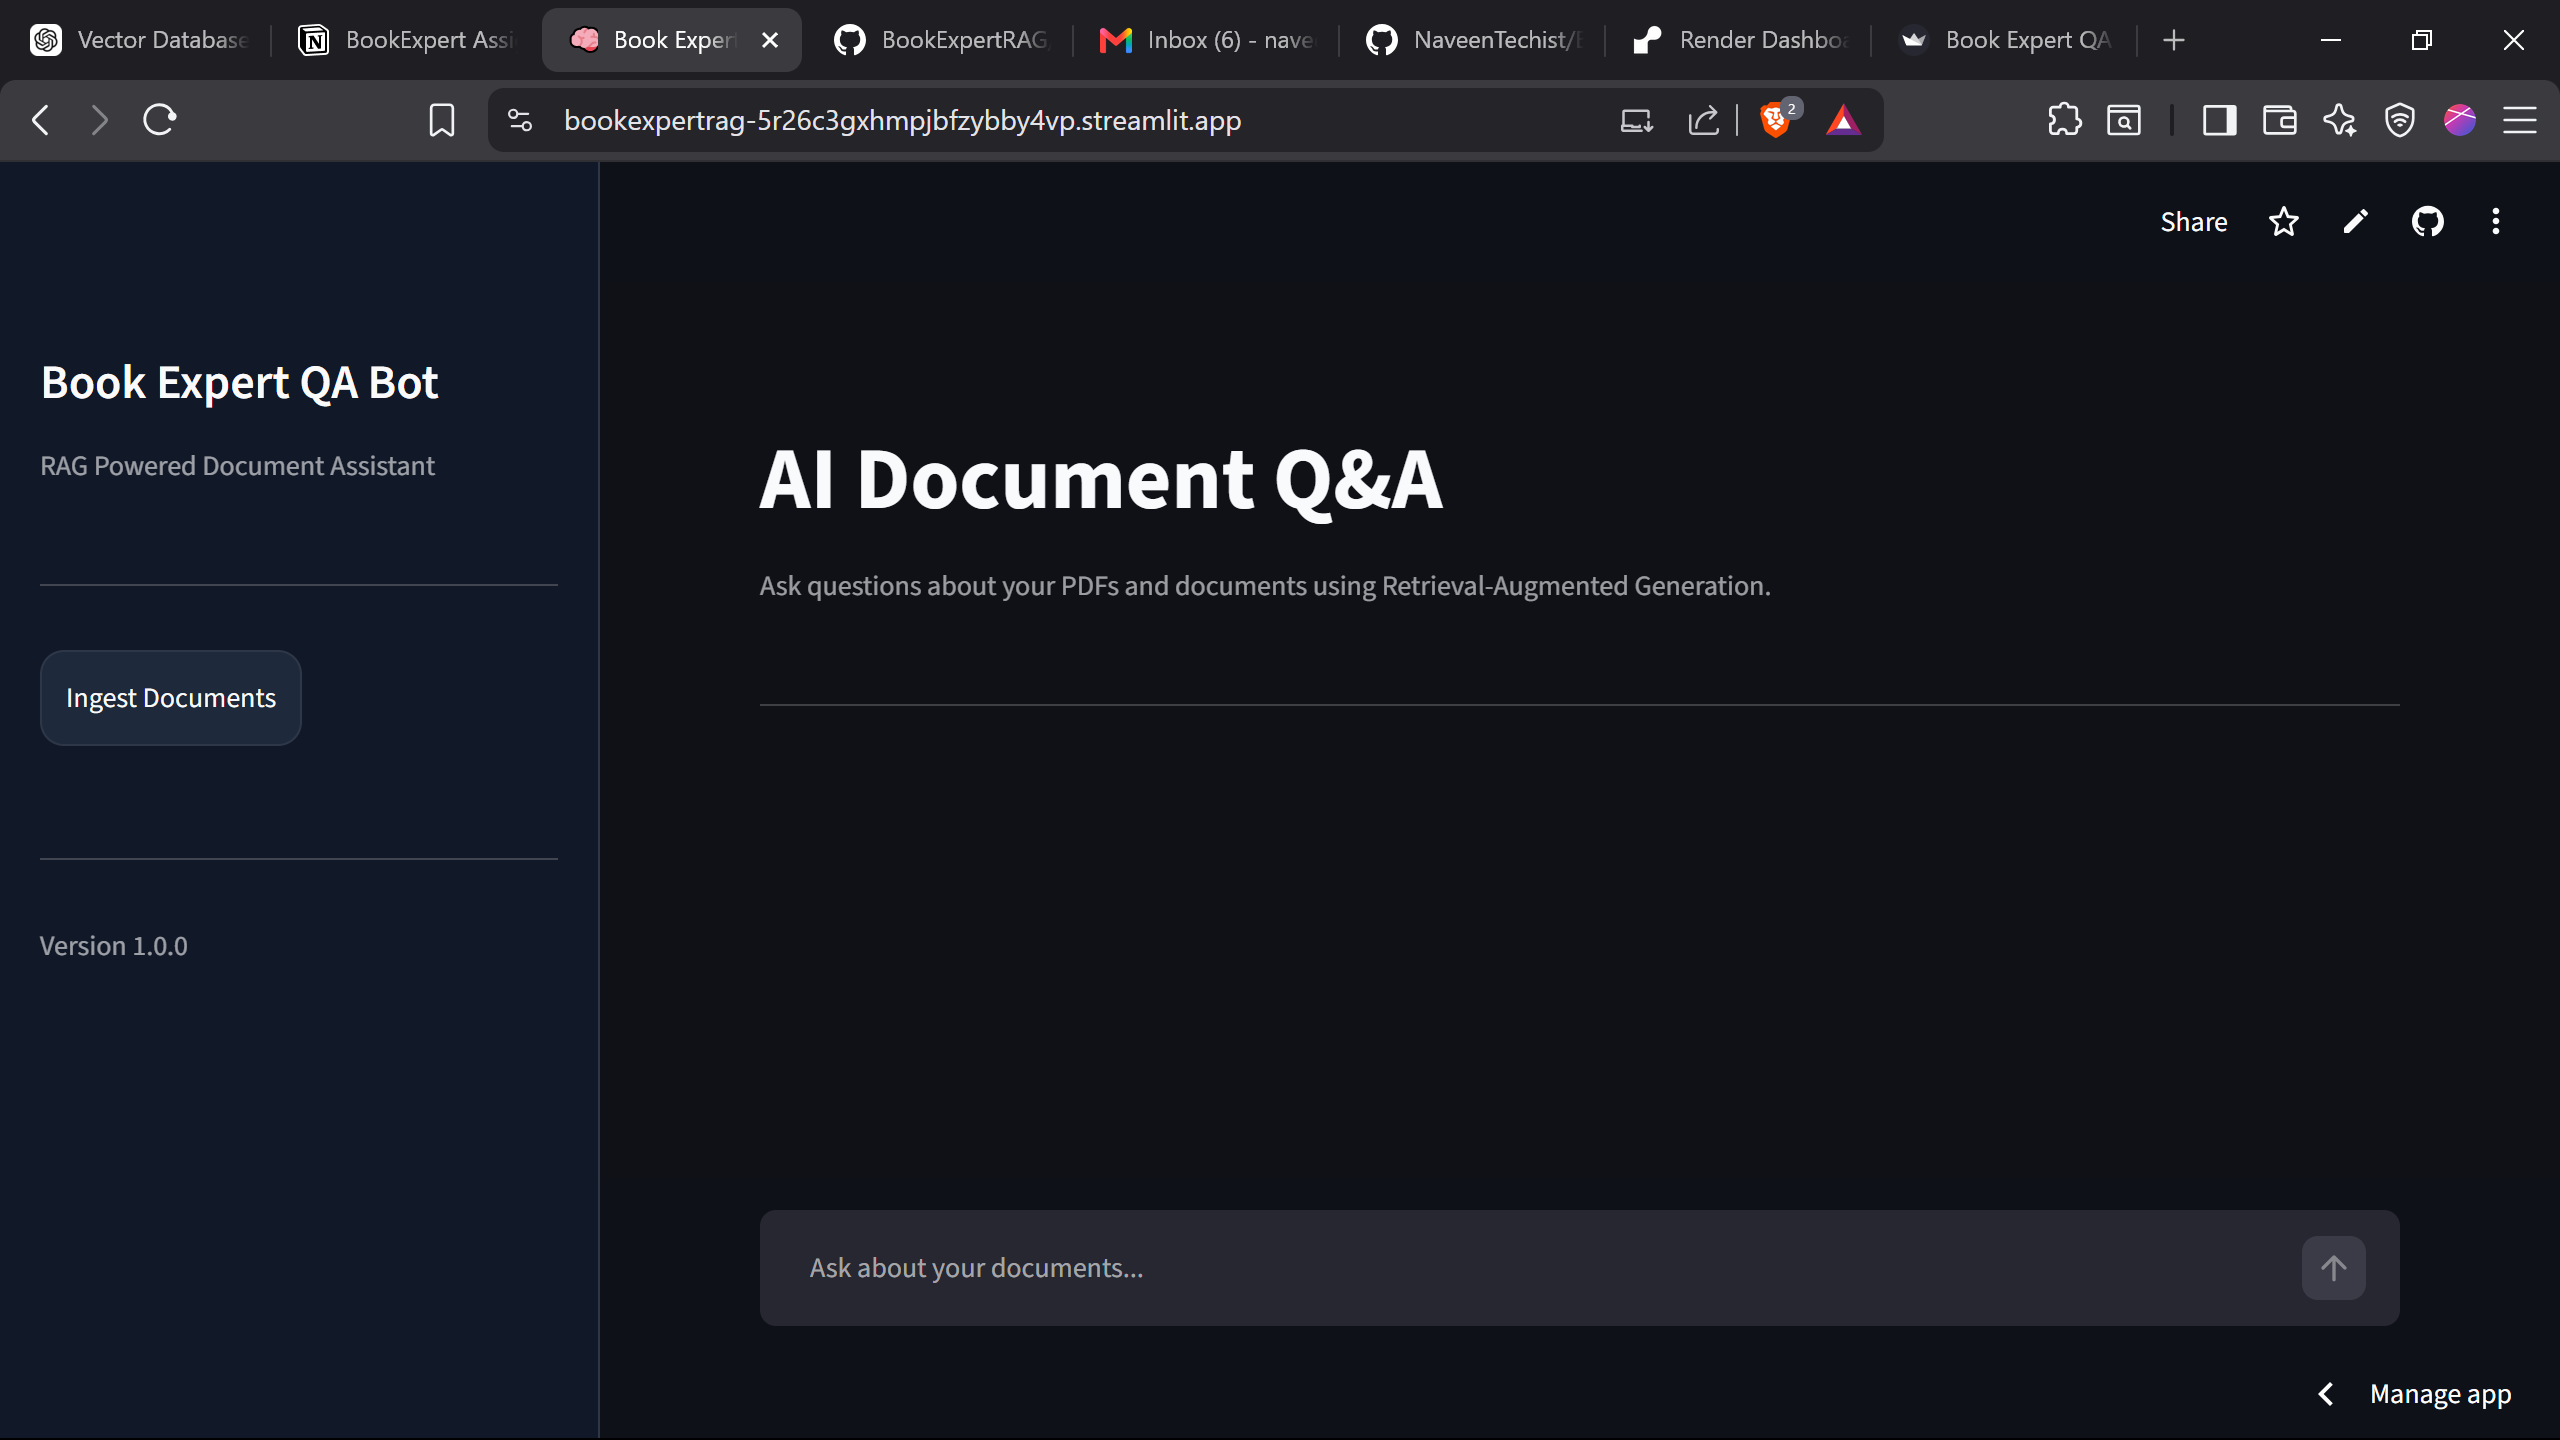
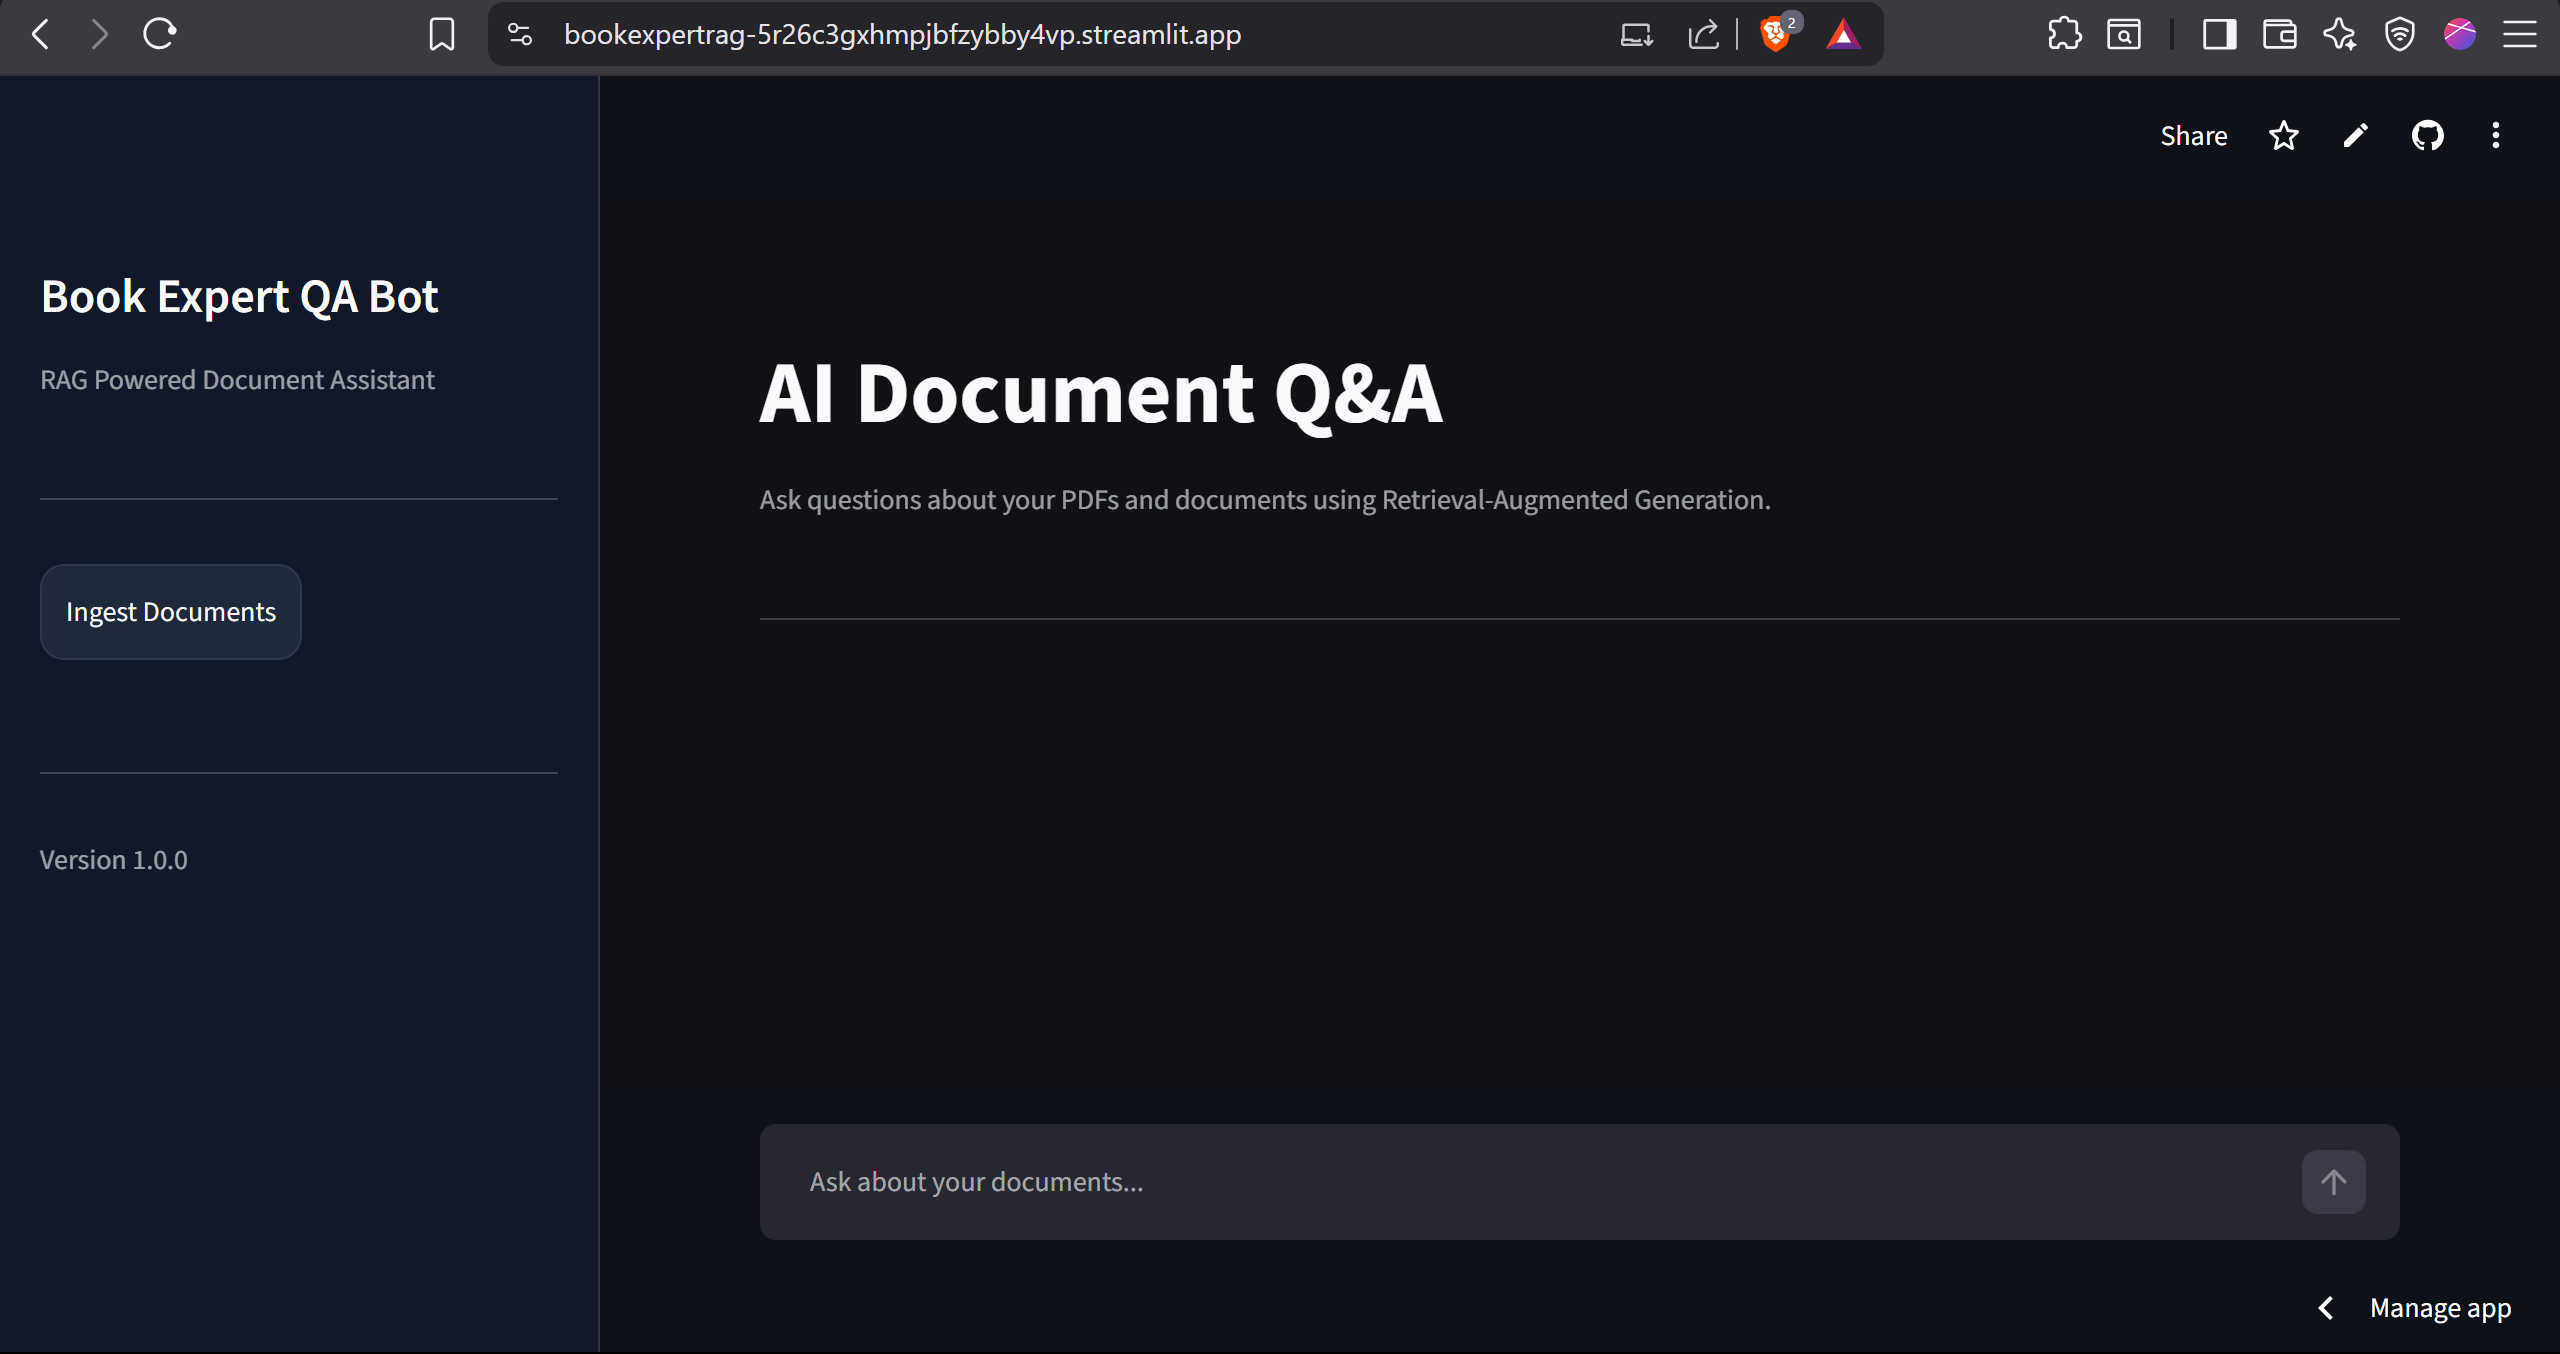
Added changes in readme

diff --git a/README.md b/README.md
@@ -304,10 +304,6 @@ This application can be deployed on:
 
 * Streamlit Community Cloud
 * Render
-* Railway
-* Azure App Service
-* AWS
-* Docker-based environments
 
 Required deployment secrets:
 
@@ -337,4 +333,5 @@ Naveen Yarramsetti
 
 App Link: https://bookexpertrag-5r26c3gxhmpjbfzybby4vp.streamlit.app/
 
-Built using Streamlit, ChromaDB, and Google Gemini.
+Built using Streamlit, ChromaDB, and Google Gemini. 
+